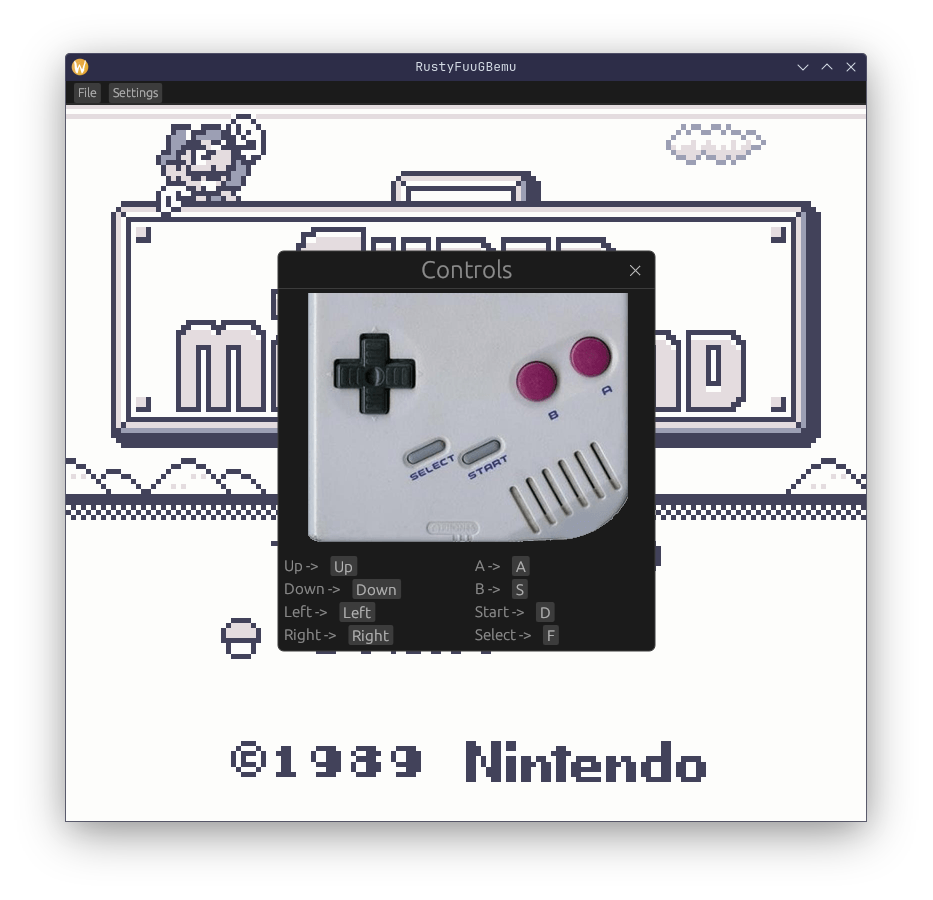
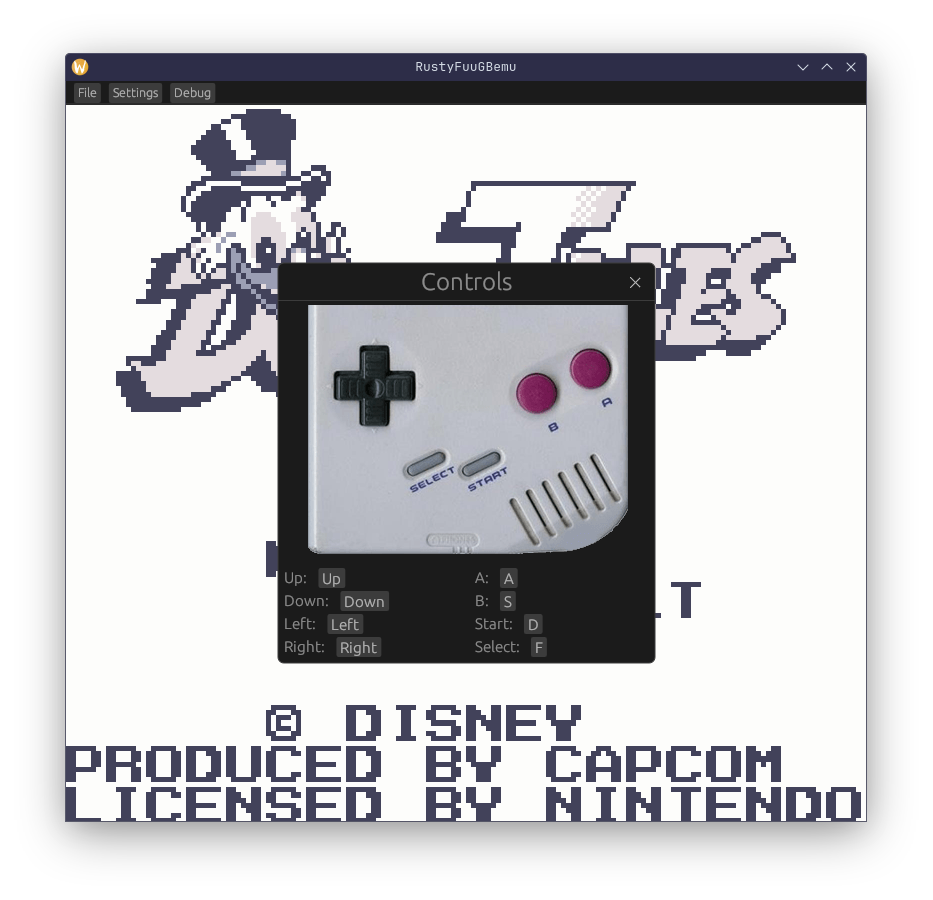
08 30 2024/update readme (#88)
* updated screenshots in readme

* bumped up cargo version

Changed region(s): [[0.0622, 0.0933, 0.9325, 0.7467], [0.0622, 0.7778, 0.9325, 0.9333], [0.7149, 0.6222, 0.746, 0.6844]]

diff --git a/README.md b/README.md
@@ -1,6 +1,6 @@
 # RustyFuuGBEmu
 
-<img src="./assets/Screenshot_Tetris.png" width=30%><img src="./assets/Screenshot_Super_Mario_Land.png" width=30%><img src="./assets/Screenshot_Pipe_Dream.png" width=30%><img src="./assets/Screenshot_Metroid.png" width=30%><img src="./assets/Screenshot_Controls.png" width=30%>
+<img src="./assets/Screenshot_Tetris.png" width=30%><img src="./assets/Screenshot_Super_Mario_Land.png" width=30%><img src="./assets/Screenshot_Pipe_Dream.png" width=30%><img src="./assets/Screenshot_Metroid.png" width=30%><img src="./assets/Screenshot_Controls.png" width=30%><img src="./assets/Screenshot_VRAM.png" width=30%>
 
 DMG Gameboy emulator fully written in rust 🦀
 The intent of the implementation is purely for educational / hobby purposes. There is currently no plan to support Gameboy Color / Super Gameboy games at the moment.
